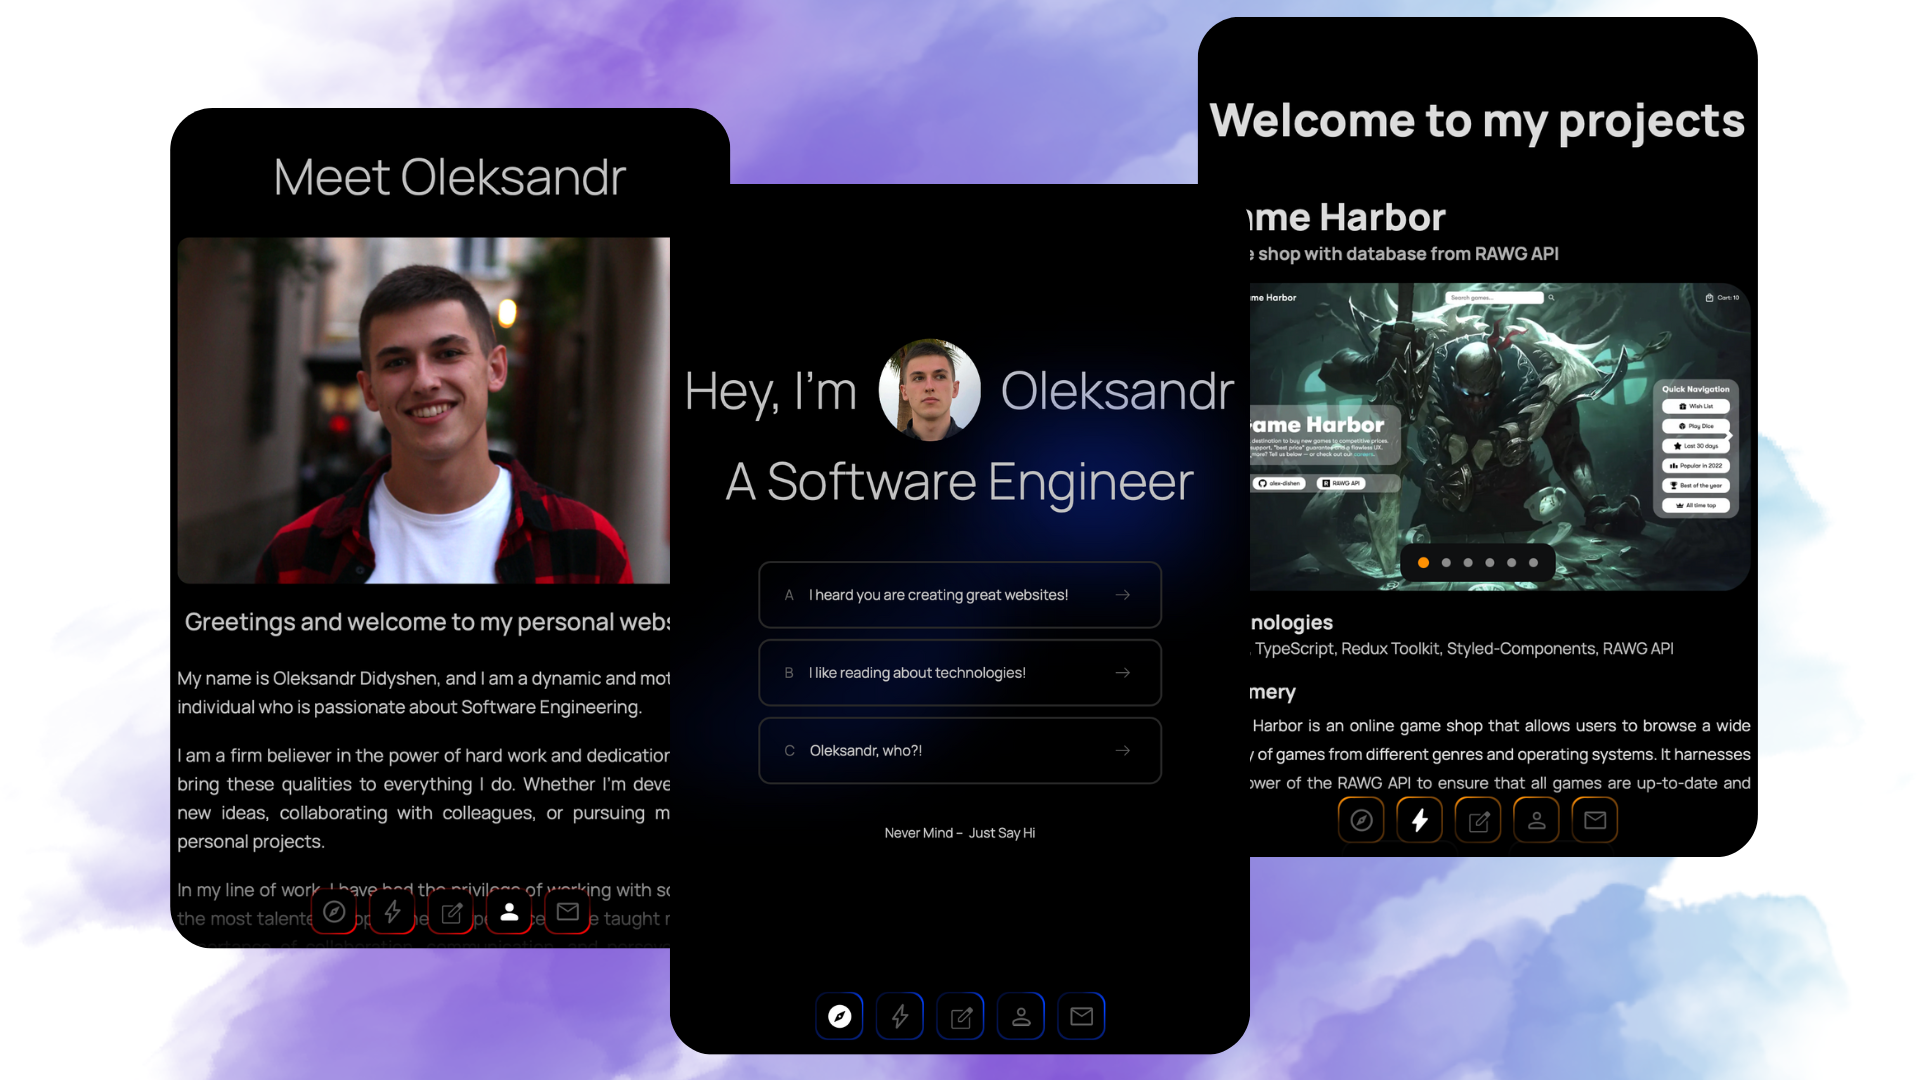
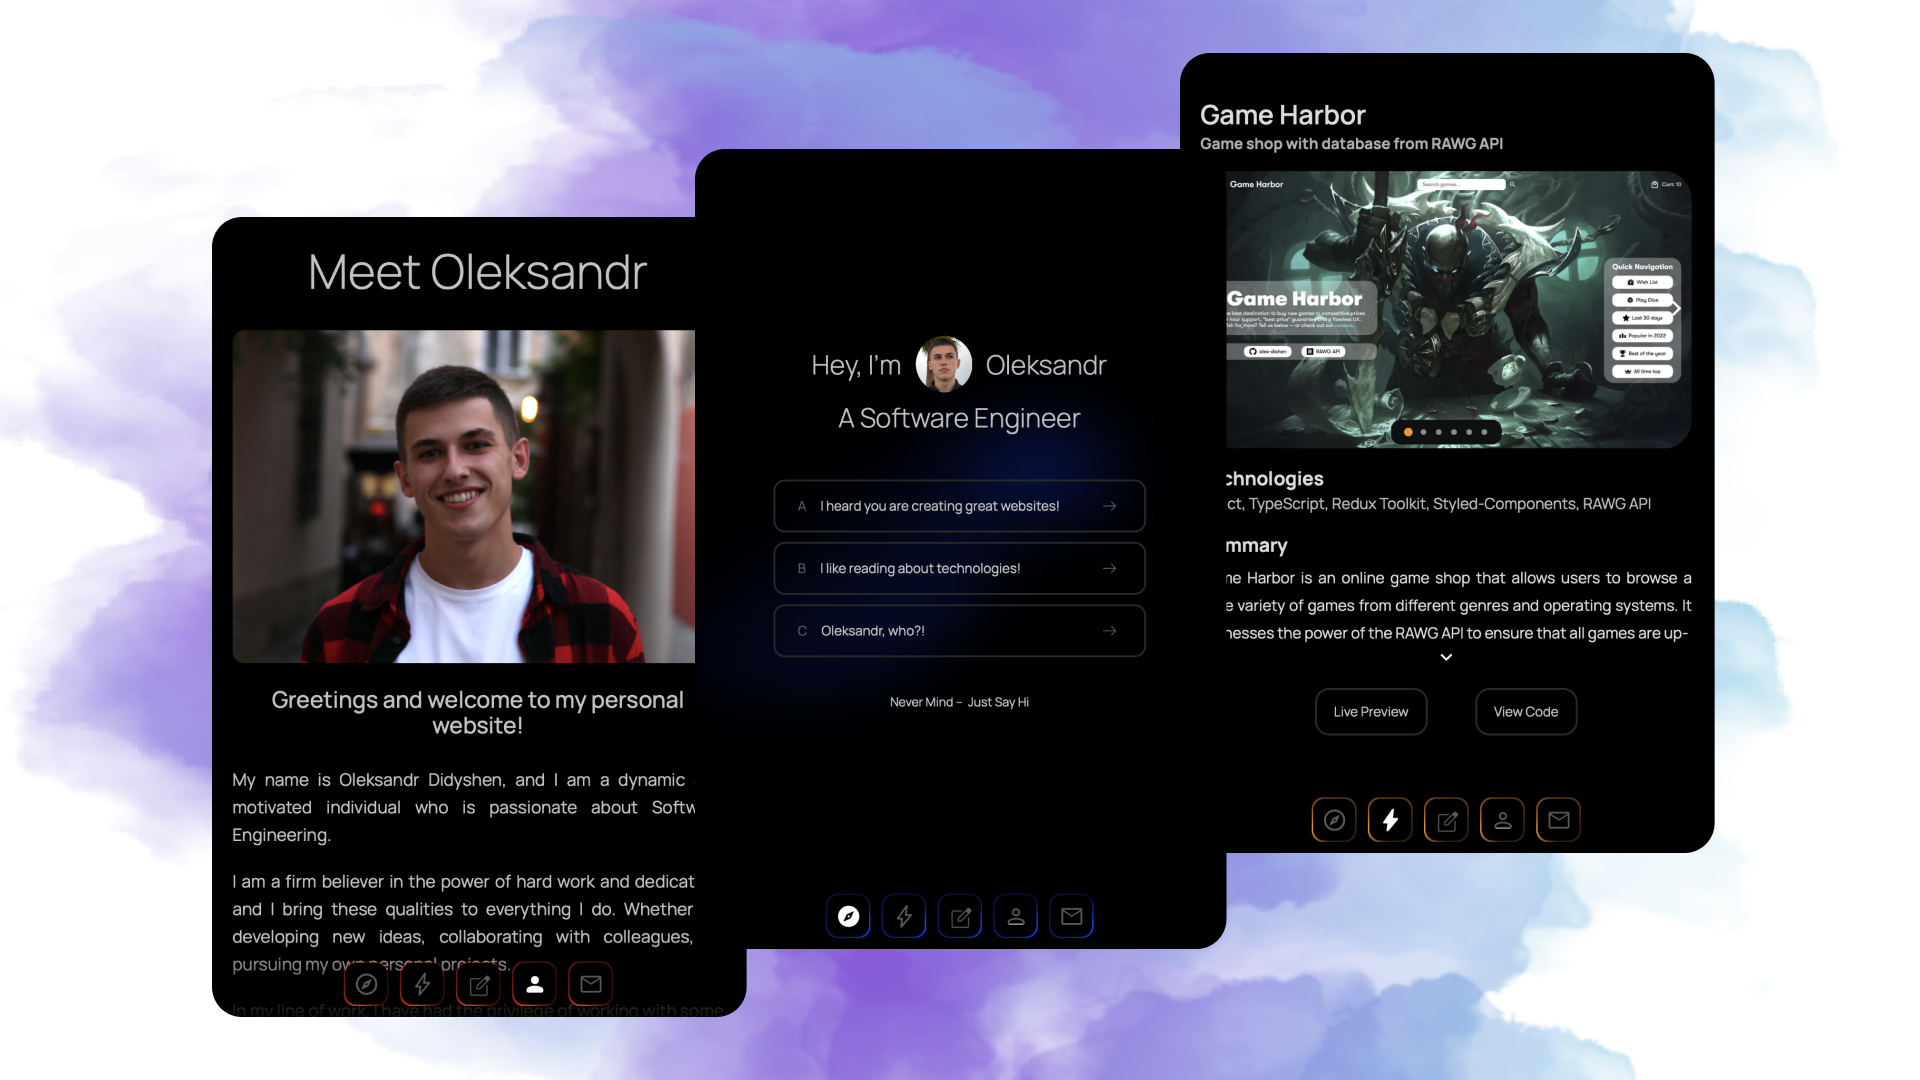
Add weaponry to projects

diff --git a/src/pages/Projects/constants.ts b/src/pages/Projects/constants.ts
@@ -1,5 +1,10 @@
 import uniqid from 'uniqid';
 // Screen width needed to take a picture 1500
+import homeScreen from 'assets/images/projects/weaponry/home-screen.webp';
+import cameraScreen from 'assets/images/projects/weaponry/camera-screen.webp';
+import infoScreen from 'assets/images/projects/weaponry/info-screen.webp';
+import secondCameraScreen from 'assets/images/projects/weaponry/camera-screen2.webp';
+import secondInfoScreen from 'assets/images/projects/weaponry/info-screen2.webp';
 import threeInRaw from 'assets/images/projects/slider/three-in-raw.webp';
 import twoInRaw from 'assets/images/projects/slider/two-in-raw.webp';
 import homePage from 'assets/images/projects/game-harbor/home-page.webp';
@@ -8,6 +13,27 @@ import gamesPage2 from 'assets/images/projects/game-harbor/games-page2.webp';
 import gamePage from 'assets/images/projects/game-harbor/game-page.webp';
 import gamePage2 from 'assets/images/projects/game-harbor/game-page2.webp';
 import gamePage3 from 'assets/images/projects/game-harbor/game-page3.webp';
+
+const weaponryPics = [
+  { id: uniqid(), src: homeScreen, alt: 'Home screen' },
+  { id: uniqid(), src: cameraScreen, alt: 'Camera screen with Abrams' },
+  { id: uniqid(), src: infoScreen, alt: 'Information screen with Abrams' },
+  {
+    id: uniqid(),
+    src: secondCameraScreen,
+    alt: 'Camera screen with Challenger 2',
+  },
+  {
+    id: uniqid(),
+    src: secondInfoScreen,
+    alt: 'Information screen with Challenger 2',
+  },
+];
+
+const sliderPics = [
+  { id: uniqid(), src: threeInRaw, alt: 'Three pictures in row' },
+  { id: uniqid(), src: twoInRaw, alt: 'Two pictures in row' },
+];
 
 const gameHarborPics = [
   { id: uniqid(), src: homePage, alt: 'Home page' },
@@ -22,12 +48,28 @@ const gameHarborPics = [
   { id: uniqid(), src: gamePage3, alt: 'The Witcher 3: Wild Hunt ' },
 ];
 
-const sliderPics = [
-  { id: uniqid(), src: threeInRaw, alt: 'Three pictures in row' },
-  { id: uniqid(), src: twoInRaw, alt: 'Two pictures in row' },
-];
-
 export const projects = [
+  {
+    id: uniqid(),
+    name: 'Weaponry',
+    description: 'Weapon recognition app',
+    pictures: weaponryPics,
+    summary:
+      "Weaponry is a mobile application that uses image recognition technology to identify different types of weapons. The app is currently capable of recognizing six different tanks, with plans to expand to include other weapons in the near future.\n\nMy primary responsibilities on the project included designing and implementing the user interface for the app. I used my design skills to create a visually appealing and user-friendly interface for the app and then used React Native to code the UI. Additionally, I was responsible for managing the iOS side of the project, which involved testing the iOS version of the app, uploading the app to App Store Connect, and enabling TestFlight for testing purposes.\n\nWorking on Weaponry was a valuable learning experience for me as I was able to develop and practice my skills in both UI design, and its implementation, and the most interesting part is playing with a machine learning model, creating datasets, and training the model. Being part of such an innovative and exciting project has been an incredible experience, and I'm proud to have contributed to its development.",
+    technologies: 'React Native, TypeScript, Styled-Components, TensorFlow',
+    live: 'https://testflight.apple.com/join/vBDWoFfE',
+  },
+  {
+    id: uniqid(),
+    name: 'Swipi',
+    description: 'Light-weight slider',
+    pictures: sliderPics,
+    summary:
+      "Introducing a lightweight and customizable slider built with React and TypeScript that offers an infinitely scrolling experience.\n\nThis slider has been designed with user experience in mind and offers a range of features that make it stand out from other sliders available in the market. One of the key benefits of this slider is its weight - it has been developed to be lightweight, ensuring that it loads quickly and doesn't slow down your website.\n\nThe slider allows users to easily customize the position of the dots and arrows, add animation to the slides and dots. In addition to this, it offers autoplay functionality, as well as a range of other props that can be used to customize the slider's behavior.\n\nWhether you're building a personal website, an online store, or a blog, this slider can be easily integrated to help enhance the user experience and make your website more engaging. So, if you're looking for a high-quality, customizable slider that offers a range of features and is easy to use, this is the perfect solution for you.",
+    technologies: 'React, TypeScript',
+    live: 'https://midstem.github.io/swipi-landing/',
+    code: 'https://github.com/midstem/swipi-landing',
+  },
   {
     id: uniqid(),
     name: 'Game Harbor',
@@ -39,16 +81,5 @@ export const projects = [
       'React, TypeScript, Redux Toolkit, Styled-Components, RAWG API',
     live: 'https://alex-dishen.github.io/shop/',
     code: 'https://github.com/alex-dishen/shop',
-  },
-  {
-    id: uniqid(),
-    name: 'Swipi',
-    description: 'Light-weight slider',
-    pictures: sliderPics,
-    summary:
-      "Introducing a lightweight and customizable slider built with React and TypeScript that offers an infinitely scrolling experience.\n\nThis slider has been designed with user experience in mind and offers a range of features that make it stand out from other sliders available in the market. One of the key benefits of this slider is its weight - it has been developed to be lightweight, ensuring that it loads quickly and doesn't slow down your website.\n\nThe slider allows users to easily customize the position of the dots and arrows, add animation to the slides and dots. In addition to this, it offers autoplay functionality, as well as a range of other props that can be used to customize the slider's behavior.\n\nWhether you're building a personal website, an online store, or a blog, this slider can be easily integrated to help enhance the user experience and make your website more engaging. So, if you're looking for a high-quality, customizable slider that offers a range of features and is easy to use, this is the perfect solution for you.",
-    technologies: 'React, TypeScript',
-    live: 'https://codesandbox.io/s/all-custom-demo-vfxhtr',
-    code: 'https://github.com/MaKs-Tkachyk/swipi',
   },
 ];

diff --git a/src/pages/Projects/index.tsx b/src/pages/Projects/index.tsx
@@ -50,6 +50,7 @@ function Projects() {
 
             <Carousel
               pictures={pictures}
+              name={name}
               id={`carousel${index}`}
               isVisible={visibleSections[`carousel${index}`]}
             />
@@ -78,13 +79,15 @@ function Projects() {
               >
                 Live Preview
               </Link>
-              <Link
-                href={code}
-                target="_blank"
-                isVisible={visibleSections[`projectLinks${index}`]}
-              >
-                View Code
-              </Link>
+              {code && (
+                <Link
+                  href={code}
+                  target="_blank"
+                  isVisible={visibleSections[`projectLinks${index}`]}
+                >
+                  View Code
+                </Link>
+              )}
             </ProjectLinks>
             {projects.length !== index + 1 && (
               <Dots isVisible={visibleSections[`projectLinks${index}`]} />

diff --git a/src/components/Carousel/index.tsx b/src/components/Carousel/index.tsx
@@ -11,12 +11,13 @@ import {
 import { ReactComponent as ChevronLeft } from 'assets/images/ui/chevron-left.svg';
 import { ReactComponent as ChevronRight } from 'assets/images/ui/chevron-right.svg';
 
-const Carousel = ({ pictures, id, isVisible }: CarouselProps) => (
+const Carousel = ({ pictures, id, isVisible, name }: CarouselProps) => (
   <CarouselWrapper id={id} isVisible={isVisible}>
     <Slider
       showDots
-      autoplay
-      slidesNumber={1}
+      autoplay={isVisible}
+      slidesNumber={name === 'Weaponry' ? 3 : 1}
+      spaceBetweenSlides={name === 'Weaponry' ? 15 : 0}
       animationSpeed={500}
       dotsAnimation="sliding"
       customDot={<Dot />}

diff --git a/src/components/Carousel/types.ts b/src/components/Carousel/types.ts
@@ -6,4 +6,5 @@ export type CarouselProps = {
   pictures: { id: string; src: string; alt: string }[];
   id: string;
   isVisible: boolean;
+  name: string;
 };
